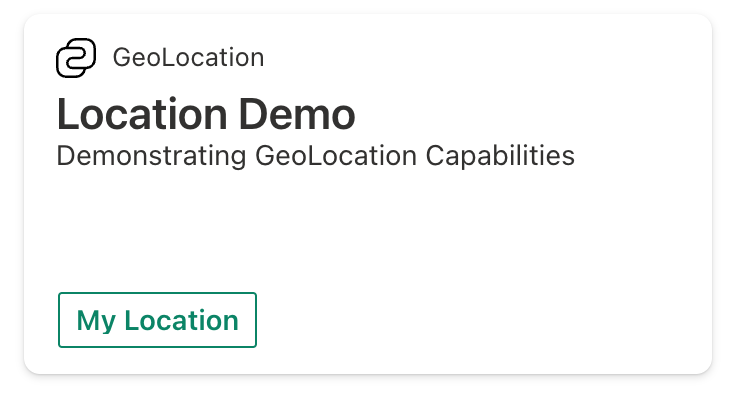
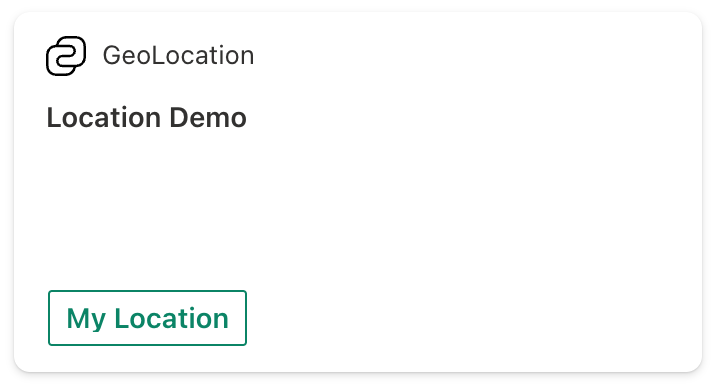
simplify geo-loc tutorial

diff --git a/docs/spfx/viva/get-started/actions/geolocation/GeolocationTutorial.md b/docs/spfx/viva/get-started/actions/geolocation/GeolocationTutorial.md
@@ -66,7 +66,7 @@ In the Quick View, we will provide three buttons which will perform the followin
 
 ### Update the labels that will show up on the card
 
-Before we start adding the actions, let us first update the strings that you will see on the card and use `PrimaryTextCardView` instead of `BasicCardView`.
+Before we start adding the actions, let us first update the strings that you will see on the card.
 
 For this, locate and open the following file in your project: **./src/adaptiveCardExtensions/geoLocation/loc/en-us.js**
 
@@ -95,38 +95,6 @@ ShowCurrentLocation: string;
 ```
 
 to the `IGeoLocationAdaptiveCardExtensionStrings` interface.
-
-Lastly, locate and open the following file in your project: **./src/adaptiveCardExtensions/geoLocation/cardView/CardView.ts**
-Modify the `cardViewParameters` getter to use `PrimaryTextCardView` instead of `BasicCardView`:
-
-```typescript
-public get cardViewParameters(): ComponentsCardViewParameters {
-  return PrimaryTextCardView({
-    cardBar: {
-      componentName: 'cardBar',
-      title: this.properties.title
-    },
-    header: {
-      componentName: 'text',
-      text: strings.PrimaryText
-    },
-    body: {
-      componentName: 'text',
-      text: strings.Description
-    },
-    footer: {
-      componentName: 'cardButton',
-      title: strings.QuickViewButton,
-      action: {
-        type: 'QuickView',
-        parameters: {
-          view: QUICK_VIEW_REGISTRY_ID
-        }
-      }
-    }
-  });
-}
-```
 
 ### Add actions on the Card View
 
